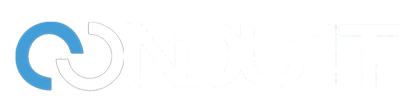
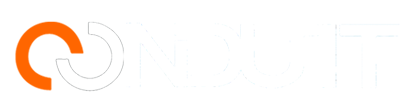
Day 6

Changed region(s): [[0.0296, 0.1963, 0.2069, 0.8411]]

diff --git a/css/style.css b/css/style.css
@@ -23,7 +23,7 @@ body {
 
 /* Headings */
 h1, h2 {
-    background: linear-gradient(90deg, #009FDB, #009FDB); /* Adjust colors if needed */
+    background: linear-gradient(90deg, #ff6600, #ff6600); /* Adjust colors if needed */
     -webkit-background-clip: text;
     -webkit-text-fill-color: transparent;
     background-clip: text;
@@ -101,7 +101,7 @@ nav.sticky {
 }
 
 .nav-links a:hover {
-    color: #009FDB;
+    color: #ff6600;
 }
 
 /* Burger Icon */
@@ -293,7 +293,7 @@ section#bio p {
 .om-symbol2 {
     display: flex;
     font-size: 5.5rem; /* Large size for the symbol */
-    color: #009FDB !important; /* Force white color */
+    color: #ff6600 !important; /* Force white color */
     font-weight: 600;
     justify-content: center; /* Horizontally centers the symbol */
     align-items: center;     /* Vertically centers the symbol (if needed) */
@@ -354,12 +354,12 @@ section#bio p {
 /* Override gradient styles for the OM symbol */
 .om-symbol {
     font-size: 5.5rem; /* Large size for the symbol */
-    color: #009FDB !important; /* Force white color */
+    color: #ff6600 !important; /* Force white color */
     font-weight: 600;
     background: none; /* Remove any background gradients */
     -webkit-background-clip: none; /* Remove background-clip effect */
-    -webkit-text-fill-color: #009FDB !important; /* Ensure the text fill is white */
-    text-fill-color: #009FDB !important; /* Apply white color */
+    -webkit-text-fill-color: #ff6600 !important; /* Ensure the text fill is white */
+    text-fill-color: #ff6600 !important; /* Apply white color */
     animation: flickerAndPulseSmall 10s ease-in-out infinite; /* Combined flicker and pulse */
     display: inline-block;
  
@@ -499,7 +499,7 @@ section#events {
  
  .event-card:hover {
     transform: scale(1.05);
-    box-shadow: 0 4px 20px rgba(9, 148, 198, 0.3);
+    box-shadow: 0 4px 20px rgba(255, 154, 2, 0.3);
  }
  
  /* Event Image Styling */
@@ -522,7 +522,7 @@ section#events {
  
  /* Event Date Styling */
  .event-date {
-    background: linear-gradient(90deg, #009FDB, #009FDB);
+    background: linear-gradient(90deg, #ff6600, #ff6600);
     color: #ffffff;
     padding: 10px;
     border-radius: 5px;
@@ -549,7 +549,7 @@ section#events {
  }
  
  .ticket-btn {
-    background: linear-gradient(90deg, #009FDB, #009FDB);
+    background: linear-gradient(90deg, #ff6600, #ff6600);
     display: inline-block;
     padding: 10px 20px;
     color: #ffffff;
@@ -685,13 +685,13 @@ input::placeholder, textarea::placeholder {
 }
 
 input:focus, textarea:focus {
-    border-color: #009FDB;
-    box-shadow: 0 0 5px rgba(8, 130, 196, 0.7);
+    border-color: #ff6600;
+    box-shadow: 0 0 5px rgba(196, 180, 8, 0.7);
     outline: none;
 }
 
 .submit-btn {
-    background: linear-gradient(90deg, #009FDB, #009FDB);
+    background: linear-gradient(90deg, #ff6600, #ff6600);
     color: #ffffff;
     padding: 10px;
     border: none;
@@ -729,7 +729,7 @@ footer {
 
 .social-icons a:hover {
     transform: scale(1.2);
-    color: #009FDB; /* Accent color on hover */
+    color: #ff6600; /* Accent color on hover */
     text-shadow: 0 0 1px #000000;
 }
 
